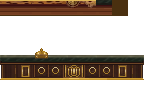
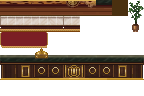
Cut the Bell Desk columns, place the potted palms
Columns are gone: 66 bg2 placements removed, indices 22/23/27 freed,
and dressing collapses to bg1 only -- which removes the role-split the
palms would otherwise have needed.

The palm ships as one 16x32 plant at sheet indices 9/18 (stacked on the
sheet, so it could be drawn upright), placed as a matched pair flanking
the hero desk at x53 and x65.

Changed region(s): [[0.0, 0.1562, 0.5556, 0.5], [0.8889, 0.0, 1.0, 0.3438]]

diff --git a/src/scenes/LevelScene.js b/src/scenes/LevelScene.js
@@ -102,18 +102,22 @@ const TILE_SKINS = {
     // nine drawn columns, top row and face row. A counter wider than 9
     // repeats the last column rather than wrapping to garbage.
     counter: (x, y, { dx, isTop }) => (isTop ? 28 : 37) + Math.min(dx, 8),
-    // bg1 is twelve 1×1 tiles on row 3 (the sconce line); bg2 is six
-    // 11-tall column runs, rows 4–14. One dressing function serves both
-    // layers, so it branches on the row rather than on the layer.
-    //
-    // The pair tiles at 32px and 11 is ODD, so a plain dy alternation
-    // would end the column on its fade-IN tile exactly where it meets
-    // the floor. Row 14 gets a dedicated plinth instead, which leaves
-    // rows 4–13 as five clean pairs ending on the fade-out.
-    dressing: (x, y, { dy }) => {
-      if (y === 3) return 24 // sconce line (1×1 tiles, no run)
-      if (y === 14) return 27 // column plinth, meeting the carpet
-      return dy % 2 === 0 ? 22 : 23
+    // the marble is drawn 7px down so the service bell has room to
+    // stand; collision follows the art (see insetCounterTops)
+    counterTopInset: 7,
+    // Dressing is bg1 only now: the column rank was CUT (human ruling
+    // 2026-08-17) and bg2 is empty, so this can branch on the row with
+    // no risk of a floor-level tile being mistaken for a column segment.
+    //   row 3      — the sconce line, twelve 1×1 tiles
+    //   rows 13/14 — the potted palms flanking the hero desk, one 16×32
+    //                plant per side: fronds above (9), pot below (18).
+    //                Those two indices sit one above the other on the
+    //                sheet, which is why the plant is drawn upright.
+    dressing: (x, y) => {
+      if (y === 3) return 24 // sconce line
+      if (y === 13) return 9 // palm fronds
+      if (y === 14) return 18 // palm pot
+      return 24
     },
   },
 }
@@ -154,6 +158,9 @@ export default class LevelScene extends Phaser.Scene {
 
     this.player = new Player(this, this.playerSpawn.x, this.playerSpawn.y)
     this.physics.add.collider(this.player.sprite, this.mainLayer)
+    // counter tops that were inset to meet their art collide with
+    // everything the tile they replaced did
+    if (this.counterTops) this.physics.add.collider(this.player.sprite, this.counterTops)
 
     this.cameras.main.setBounds(0, 0, this.worldWidth, this.worldHeight)
     // camera follow is manual + pixel-coherent — see updateCamera()
@@ -161,6 +168,7 @@ export default class LevelScene extends Phaser.Scene {
     // tagging
     this.items = this.physics.add.group()
     this.physics.add.collider(this.items, this.mainLayer)
+    if (this.counterTops) this.physics.add.collider(this.items, this.counterTops)
     this.target = null
     this.hold = null
     this.holdArmed = false // fresh-press arm for deferred hold start (-e)
@@ -205,6 +213,7 @@ export default class LevelScene extends Phaser.Scene {
     // cross the showcase gap with no dash).
     this.collectibles = this.physics.add.group({ allowGravity: false })
     this.physics.add.collider(this.collectibles, this.mainLayer)
+    if (this.counterTops) this.physics.add.collider(this.collectibles, this.counterTops)
     // map-placed collectibles: `collectibles` object layer, point objects
     // typed by collectible key (assets/maps/README.md)
     for (const obj of this.map.getObjectLayer('collectibles')?.objects ?? []) {
@@ -354,6 +363,43 @@ export default class LevelScene extends Phaser.Scene {
     }
   }
 
+  // Drop a counter block's standable surface by `inset` px to meet the
+  // drawn marble. Tile collision is whole-tile and Arcade has no
+  // sub-tile hitbox, so the block's TOP ROW goes non-solid and a static
+  // body covers what remains of it (y + inset → y + 16). Consequences,
+  // both intended: the inset strip above the marble is now open air, so
+  // a bell or lamp drawn up there is scenery rather than a wall, and the
+  // rows BELOW the top keep their own tile collision untouched.
+  insetCounterTops(cells, inset) {
+    const key = (x, y) => `${x},${y}`
+    const present = new Set(cells.map((c) => key(c.x, c.y)))
+    // a cell is a TOP cell when nothing sits directly above it
+    const tops = cells
+      .filter((c) => !present.has(key(c.x, c.y - 1)))
+      .sort((a, b) => a.y - b.y || a.x - b.x)
+    this.counterTops = this.physics.add.staticGroup()
+    let run = null
+    const flush = () => {
+      if (!run) return
+      const x = run.x0 * 16
+      const w = (run.x1 - run.x0 + 1) * 16
+      const y = run.y * 16 + inset
+      const h = 16 - inset
+      const bar = this.add.rectangle(x + w / 2, y + h / 2, w, h).setVisible(false)
+      this.counterTops.add(bar)
+      run = null
+    }
+    for (const c of tops) {
+      this.mainLayer.getTileAt(c.x, c.y)?.setCollision(false, false, false, false)
+      if (run && c.y === run.y && c.x === run.x1 + 1) run.x1 = c.x
+      else {
+        flush()
+        run = { y: c.y, x0: c.x, x1: c.x }
+      }
+    }
+    flush()
+  }
+
   // remap one layer's tiles through the skin. Roles are BLOCK-RELATIVE:
   // a skin function receives dx / dy (columns and rows from the top-left
   // of its own contiguous run) and isTop, so multi-tile structures —
@@ -393,7 +439,23 @@ export default class LevelScene extends Phaser.Scene {
     this.mainLayer = map.createLayer('main', tileset).setDepth(-2)
     this.fgLayer = map.createLayer('fg', tileset).setDepth(8)
     this.mainLayer.setCollisionByExclusion([-1])
+    // COLLISION FOLLOWS ART for counters, same principle as CAR_TOP_INSET
+    // (BRIEF-ART-04 §0 as amended): the belldesk marble is drawn 7px
+    // below the block's top edge so the service bell has room to stand,
+    // and the surface the player lands on is the DRAWN surface. Counter
+    // cells are captured BEFORE skinning, while they still speak role
+    // gid 3 — skinLayer rewrites indices in place.
+    // Phaser reuses scene instances across restart(), so a stale group
+    // from a previous run must not survive into a map without insets
+    this.counterTops = null
+    const counterCells = []
+    if (useSkin && skin.counterTopInset) {
+      this.mainLayer.forEachTile((t) => {
+        if (t.index === 3) counterCells.push({ x: t.x, y: t.y })
+      })
+    }
     if (useSkin) this.applyTileSkin(skin, [bg1, bg2])
+    if (counterCells.length) this.insetCounterTops(counterCells, skin.counterTopInset)
     // fg draws IN FRONT of play, so a sheet whose fg tiles are LIGHT
     // (the garage's sodium pools) wants additive blending: the dark end
     // of their dither contributes nothing and the warm end brightens

diff --git a/art/belldesk-inventory.md b/art/belldesk-inventory.md
@@ -29,26 +29,30 @@ keeps its placeholder look until each role is filled.
 | | 6 | worn patch (breaker) |
 | | 7 | *free (RETIRED 2026-08-14-c — was the marble border; art is drawn but unused, so the slot is reusable)* |
 | | 8 | sub-floor fill (below the walked row; never seen edge-on) |
-| | 9 | *free* |
+| | 9 | **palm fronds** — upper half of the 16×32 potted palm |
 | 1 | 10,11,12,13 | **mezzanine strip**: left cap, middle A, middle B, right cap — Faena formal per handoff 2026-08-14-b: MARBLE LIGHT walk top carrying the standable edge (same marble as the desk top), lacquer face band, brass drip on the coffered soffit. NOT carpet — leopard is floor-only |
 | | 14 | mezzanine middle breaker — brass drip line accent |
-| | 15–18 | *free* |
+| | 15–17 | *free* |
+| | 18 | **palm pot** — lower half of the palm; sits directly under index 9 on the sheet, so the plant is drawn upright |
 | 2 | 19,20,21 | **cart platform**: left cap, middle, right cap (brass frame + red velvet deck) |
-| | 22,23 | **column segment pair** — 22 fades in at its top, 23 out at its bottom (garage pillar grammar: they alternate down an 11-tall run) |
+| | 22,23 | *free (columns CUT 2026-08-17)* |
 | | 24 | wall sconce (warm) |
-| | 25,26 | potted palm pair |
-| | 27 | **column plinth** — the segment that meets the carpet (see below) |
+| | 25,26,27 | *free — 25/26 were the speculative palm slots, 27 the column plinth; the palm shipped at 9/18 instead* |
 | 3 | **28–36** | **desk hero block, TOP row** — nine bespoke tiles, marble top with the standable light edge, drawn left-to-right as one 144px run |
 | 4 | **37–45** | **desk hero block, FACE row** — nine bespoke tiles, wood panelling / key cubbies / bell glint, same run |
 | 5 | 46–54 | *free* — spare row |
 
-**Why the column needs three tiles, not two.** The bg2 runs are **11
-tall** (rows 4–14) and the fade-in/fade-out pair tiles at 32px, so a
-plain alternation would end the column on its fade-IN tile exactly
-where it meets the floor. Row 14 takes a dedicated **plinth** (index
-27) instead, which leaves rows 4–13 as five clean pairs ending on the
-fade-out. Draw 22 as "column continues above", 23 as "column continues
-below", 27 as "column lands on the carpet".
+**Columns are cut (2026-08-17).** The bg2 column rank is gone — all 66
+placements removed from the map and the layer is empty — so the
+odd-run plinth problem it created is moot and indices 22/23/27 are
+free. Dressing is now bg1 only, which is also why bg1 and bg2 never
+needed splitting into separate roles.
+
+**The potted palms** are one 16×32 plant per side **flanking the hero
+desk**, on bg1 at **x53 and x65** (the desk runs x55–63), fronds on row
+13 and pot on row 14. bg1 draws behind the main layer, so they stand on
+the carpet behind the play plane. Room remains for two more pairs at
+x45–49 and x71–75 if the level ever wants more rhythm.
 
 ## (b) Roles, gids, and exact placements
 
@@ -61,8 +65,8 @@ are all the map uses, and all it can use without a code change:
 | 1 | `ground` | rows **15 and 16**, full width (x 0–119). Row 15 is walked, row 16 is fill beneath it — the skin branches on `y`, exactly like the garage's asphalt. The carpet runs unbroken beneath the hero desk (no apron; -14-c). |
 | 6 / 2 / 7 | `leftCap` / `middle` / `rightCap` | ten platforms in **three tiers** — see below |
 | 3 | `counter` | **x 55–63, rows 13–14** — 9 wide × 2 high, sitting on the floor |
-| 4 | `dressing` (bg1) | twelve **1×1** tiles at **row 3**, every 10 columns from x 5 — ceiling height, the sconce line |
-| 5 | `dressing` (bg2) | six **1-wide × 11-tall** runs at **x 10, 30, 50, 70, 90, 110**, rows 4–14 — the column rank |
+| 4 | `dressing` (bg1) | twelve **1×1** tiles at **row 3**, every 10 columns from x 5 (the sconce line), plus the two palm columns at **x53 and x65, rows 13–14** |
+| 5 | `dressing` (bg2) | **EMPTY** — the column rank was cut 2026-08-17 |
 
 ### The three platform tiers
 
@@ -123,10 +127,10 @@ each one's standable edge has to read at a glance while running.
 
 ## (d) Free and available
 
-- **Sheet indices 7, 9, 15–18, 46–54** — spare, plus anything you
-  don't use above. Index 7 is the retired marble border: the tile is
-  drawn but nothing references it, so it is free to repurpose or
-  clear. The spare row 5 exists precisely so a role can grow
+- **Sheet indices 7, 15–17, 22, 23, 25–27, 46–54** — spare, plus
+  anything you don't use above. Two of those carry orphaned art: index
+  7 (the retired marble border) is drawn but unreferenced, and 22/23
+  would have been the columns. Free to repurpose or clear. The spare row 5 exists precisely so a role can grow
   without re-cutting the sheet.
 - **The `fg` layer exists and is EMPTY.** The garage's lighting
   machinery is generic and already built: an additive fg tile layer
@@ -154,6 +158,5 @@ each one's standable edge has to read at a glance while running.
 3. Desk hero block (18 tiles — the bespoke 144×32 run) — after this
    the level stops wearing the Coatroom's bones, which is §3's own
    milestone.
-4. Cart platform strip (3), column pair + plinth (3), sconce (1),
-   palms (2).
+4. Cart platform strip (3), sconce (1). Palms are DONE (9/18).
 5. Parallax P4 → P3 → P2 → P1, then the glow overlay.

diff --git a/DECISIONS.md b/DECISIONS.md
@@ -3701,3 +3701,37 @@ formal, leopard floor-only."
 "2026-08-14 — Marble border role cut (handoff 2026-08-14-c): orphaned
 apron spec retired; desk sits on carpet per references; shadow-line
 grounding pre-armed if ever needed."
+
+## 2026-08-17 — Bell Desk: columns cut, potted palms placed
+
+Human rulings, applied together.
+
+COLUMNS CUT. All 66 bg2 placements removed from belldesk.json; the
+layer is now empty. Indices 22/23 (the segment pair) and 27 (the
+plinth) are free, and the odd-run plinth problem those runs created is
+moot. A side benefit: dressing is bg1-only now, so bg1 and bg2 never
+needed splitting into separate roles — the prerequisite I had flagged
+for palms disappeared with the columns.
+
+PALMS PLACED. The human drew a single 16×32 plant at sheet indices
+**9 and 18** rather than the speculative 25/26, because those two sit
+one directly above the other on a 9-column sheet and so could be drawn
+in their proper orientation — the better choice, and worth remembering
+as a sheet-layout lesson: a multi-tile object wants its slots stacked
+the way the object is.
+
+Placement (human: "flanking the desk is the appropriate placement"):
+bg1 at x53 and x65, fronds row 13, pot row 14 — one plant each side of
+the hero desk, which occupies x55–63. bg1 draws behind the main layer,
+so they stand on the carpet behind the play plane. Room for two more
+pairs at x45–49 and x71–75 if the level ever wants more rhythm.
+
+Verified in-game: both palms resolve (9 above 18, both sides), bg2
+reports zero tiles, the sconce line still resolves to 24, and the
+carpet still runs unbroken under the desk. No console noise. At 3× the
+plant reads as a slender potted palm sitting on the carpet line behind
+the desk.
+
+Doc updates: inventory sheet table (9/18 claimed, 22/23/25/26/27 freed,
+column note replaced, order list), the bg1/bg2 role rows, and
+BRIEF-ART-07 §1's dressing bullet.

diff --git a/BRIEF-ART-07.md b/BRIEF-ART-07.md
@@ -74,11 +74,11 @@ zone. Draw to the inventory, not the memory.
   it — it is the level's name.
 - **Cart platforms:** brass luggage-cart tiles (frame + red
   velvet deck) where the blockout uses them as surfaces.
-- **Dressing:** column segments + plinth (three tiles — see
-  the inventory: the runs are 11 tall, an odd count), potted
-  palm pair (Palm Silhouette — the sheet's only other green
-  is the desk's malachite), wall sconce flicker pair (warm),
-  elevator door suggestion with a dim gold indicator.
+- **Dressing:** COLUMNS CUT (2026-08-17). A single 16×32
+  potted palm (Palm Silhouette — the sheet's only other green
+  is the desk's malachite), placed as a matched pair flanking
+  the hero desk; wall sconce flicker pair (warm); elevator
+  door suggestion with a dim gold indicator.
 
 ## 2. Parallax (four layers, Coatroom depth grammar)
 
